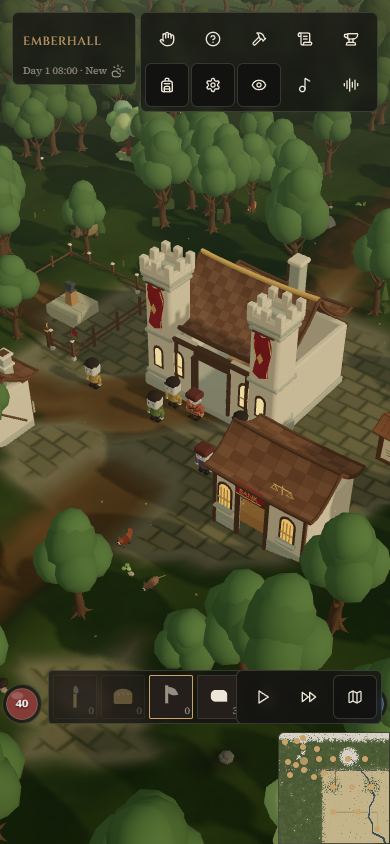
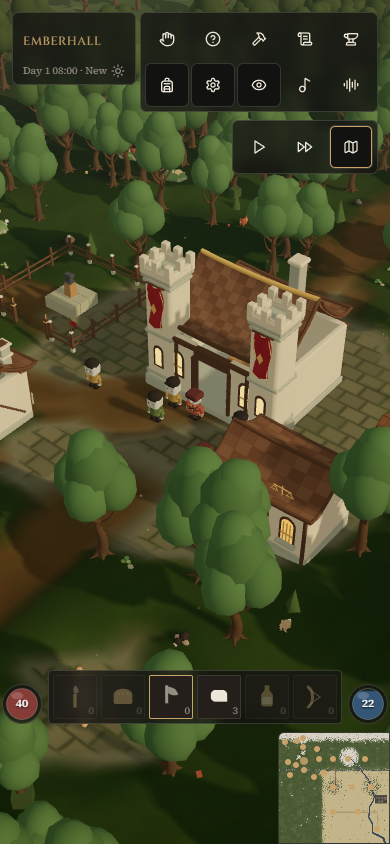
fix(hud): dock CornerCluster out of the phone bottom band; lift stair card
Band mode (<768px): the time/map plate docks under the top-right utility
plate (max-md:top-[120px] right-3 bottom-auto) and the Emberdeep stair card
rides above the combat band (max-md:bottom-[calc(var(--corner-clear)+126px)]).
Desktop anchors untouched. Fixes t_8765b104 census defects: hotbar slots 5-6
and Cleave chip untappable, mana orb occluded in all 13 mobile cases, stair
Enter/Leave covered with map open.

Acceptance: census 26/26 cases zero findings (13 mobile 390x844 + 13 desktop
1440x960 unchanged); corner targets 44x44; smoke:mobile-hud 43/43; npm test,
tsc, zero-warning lint, build, check:auth all green; art ledger --refresh
(2-line line-pin update). Local only, no push/deploy.

diff --git a/src/components/game/chrome/corner-cluster.tsx b/src/components/game/chrome/corner-cluster.tsx
@@ -8,6 +8,13 @@ import { MapToggle } from "./rail";
  * Time controls + the mini-map toggle as one small glass plate that floats
  * just above the mini-map corner block (or the corner itself when the map is
  * tucked away) — the controls that belong to the corner, without a bar.
+ *
+ * Band mode (<768px) docks the plate under the top-right utility plate instead:
+ * the bottom band belongs to the centered combat cluster, and a right-anchored
+ * plate there stole taps from hotbar slots 5–6, the mana orb and the stair card
+ * (t_8765b104 census). Top = utility plate bottom (top-3 12px + 100px plate)
+ * + CHROME_GAP 8px = 120px; right-3 aligns it with the utility plate. Desktop
+ * keeps the corner anchor untouched.
  */
 export function CornerCluster({ mapOpen, onToggleMap }: { mapOpen: boolean; onToggleMap: () => void }) {
   const speed = useGame((s) => s.speed);
@@ -15,7 +22,7 @@ export function CornerCluster({ mapOpen, onToggleMap }: { mapOpen: boolean; onTo
   return (
     <div
       data-testid="corner-cluster"
-      className="hud-glass pointer-events-auto absolute right-2 bottom-[var(--corner-clear)] flex items-center gap-0.5 rounded-[var(--radius-md)] p-1"
+      className="hud-glass pointer-events-auto absolute right-2 bottom-[var(--corner-clear)] flex items-center gap-0.5 rounded-[var(--radius-md)] p-1 max-md:top-[120px] max-md:right-3 max-md:bottom-auto"
     >
       <button
         type="button"

diff --git a/src/components/game/emberdeep-travel.tsx b/src/components/game/emberdeep-travel.tsx
@@ -8,7 +8,11 @@ export function EmberdeepTravel() {
   const inside = inEmberdeep(snap.youX, snap.youZ);
   const stair = inside ? EMBERDEEP_EXIT : EMBERDEEP_ENTRY;
   if (panel !== "none" || Math.hypot(snap.youX - stair.tx, snap.youZ - stair.ty) > 3) return null;
-  return <div className="pointer-events-auto absolute bottom-32 left-1/2 w-64 max-w-[80vw] -translate-x-1/2 border border-amber-700 bg-stone-950/95 p-3 text-center text-amber-100 shadow-xl" data-testid="emberdeep-travel">
+  // Band mode (<768px): ride above the combat band — a technique row plus a
+  // full six-slot hotbar stand 118px tall, so the card clears them by
+  // CHROME_GAP (8px) whether the minimap is open or shut. Desktop keeps
+  // bottom-32: its combat band never reaches the card.
+  return <div className="pointer-events-auto absolute bottom-32 left-1/2 w-64 max-w-[80vw] -translate-x-1/2 border border-amber-700 bg-stone-950/95 p-3 text-center text-amber-100 shadow-xl max-md:bottom-[calc(var(--corner-clear)+126px)]" data-testid="emberdeep-travel">
     <div className="mb-1 font-serif text-lg">{inside ? "The stair to daylight" : "The Emberdeep"}</div>
     <p className="mb-3 text-xs text-stone-300">{inside ? "Return to the Hollowvein road." : "Old halls beneath the eastern road."}</p>
     <button type="button" className="min-h-11 w-full border border-amber-600 bg-stone-800 px-3 py-2 text-sm hover:bg-stone-700" onClick={() => {

diff --git a/MOBILE_HUD_FIX_REPORT.md b/MOBILE_HUD_FIX_REPORT.md
@@ -1,0 +1,62 @@
+# Mobile bottom-HUD overlap fix (t_8907b99d)
+
+Fixes the confirmed defects from investigation t_8765b104 (harness commit 496af9a,
+cherry-picked here as c879fdb). Base f083a96. Local commit only — no push/deploy.
+
+## Changes (2 components, band mode <768px only; desktop untouched)
+
+1. `src/components/game/chrome/corner-cluster.tsx` — in band mode the time/map
+   plate docks under the top-right utility plate: `max-md:top-[120px]
+   max-md:right-3 max-md:bottom-auto` (120px = utility top-3 12px + 100px plate
+   + 8px chrome gap; right-3 aligns with the utility plate). Desktop keeps
+   `bottom-[var(--corner-clear)]` above the minimap corner.
+2. `src/components/game/emberdeep-travel.tsx` — the stair card rides above the
+   combat band on phones: `max-md:bottom-[calc(var(--corner-clear)+126px)]`
+   (118px max combat band + 8px gap). Desktop keeps `bottom-32`.
+
+No new components, no UI rewrite, no desktop layout change.
+
+## Acceptance evidence (all re-run on the final code)
+
+- Census harness `scripts/hud-geometry-qa.mjs` vs dev server 127.0.0.1:5517:
+  - mobile 390x844: 13 cases, 0 errors, 0 findings (zero hit-stolen, zero AABB).
+  - desktop 1440x960: 13 cases, 0 errors, 0 findings — layout unchanged
+    (corner x1286-1432 y786-840 above minimap y848-960; combat centered x507-933).
+  - Matrix: 6/2/0 hotbar pins x map default/toggled/persisted x overworld/Emberdeep
+    + stair proximity with map open and collapsed.
+- Mobile corner plate rect: {'x': 232, 'y': 120, 'w': 146, 'h': 54, 'right': 378, 'bottom': 174} — out of the bottom band.
+- Corner hit targets: [('Resume time', 44, 44), ('Faster time', 44, 44), ('Show mini-map', 44, 44)] — all >=44x44.
+- Stair card (map open): {'x': 67, 'y': 468, 'w': 256, 'h': 130, 'right': 323, 'bottom': 598} — Enter button fully clear of the
+  combat band (technique top y606); map-collapsed case y580-710 clears hotbar y718.
+- Mana orb: hit ownership intact in all 13 mobile cases (was occluded in all 13 before).
+- `smoke:mobile-hud` (EMBERHALL_URL=5517): ok=true, 43/43 cases — assertCorner
+  updated to the band-mode contract; desktop corner assertions unchanged.
+- New lockdown test in `scripts/audit-ui-classic-frame.test.mjs` (band-mode anchors).
+
+## Gates
+
+- npm test: pass, fail 0 (incl. art-coverage + safety-test-registration audits).
+- tsc --noEmit: exit 0. eslint --max-warnings 0: exit 0 (3 pre-existing unused-var
+  warnings fixed in hud-geometry-qa.mjs / two-client-proof.mjs — no behavior change).
+- npm run build: exit 0 (db:migrate skips without DATABASE_URL).
+- check:auth --dev-url 5517: dev and build agree, sign-in off.
+- art/asset-ledger.json: sanctioned `--refresh` (2-line diff: CornerCluster
+  line-pins :12 -> :19 after the doc-comment addition).
+
+## Known transient proximity (out of acceptance scope)
+
+The fishing-status toast (top-36, pointer-events-none, only during an active
+fishing minigame) can visually graze the docked plate's lower-left corner at
+390px. It steals no taps and is not part of the census matrix.
+
+## Reproduce
+
+```bash
+npm run dev -- --host 127.0.0.1 --port 5517   # wrapper-mediated; 8080 untouched
+HUD_QA_DEVICE=mobile  node --experimental-strip-types scripts/hud-geometry-qa.mjs http://127.0.0.1:5517 > m.log 2>&1
+HUD_QA_DEVICE=desktop node --experimental-strip-types scripts/hud-geometry-qa.mjs http://127.0.0.1:5517 > d.log 2>&1
+EMBERHALL_URL=http://127.0.0.1:5517 node scripts/mobile-hud-overlap-smoke.mjs > s.log 2>&1
+```
+
+Redirect to file, never pipe: the shell shim kills piped node runs with
+"stdin is not a tty" on this host.
